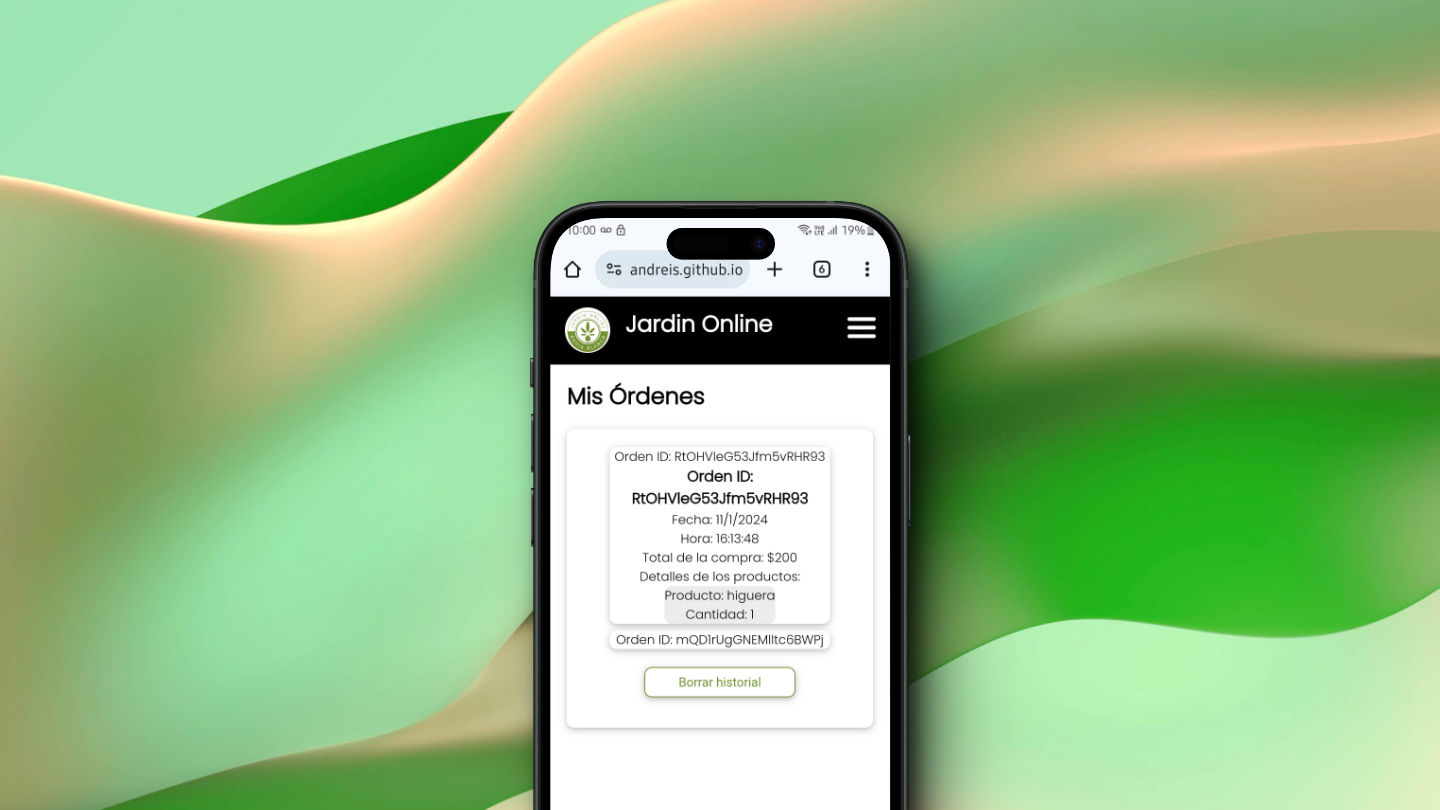
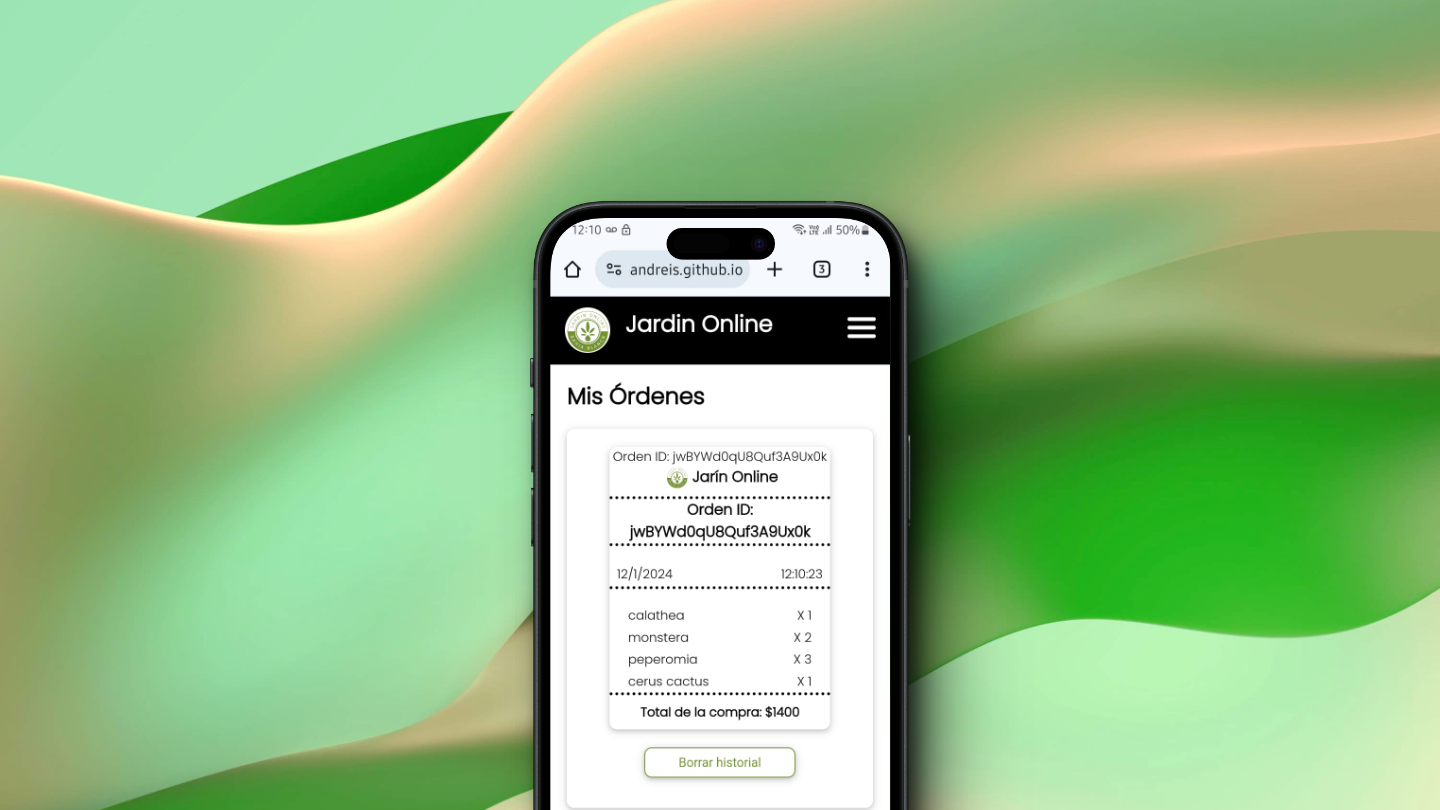
stockcheck

Changed region(s): [[0.4062, 0.5556, 0.5938, 1.0], [0.5312, 0.2778, 0.625, 0.3086], [0.4062, 0.2778, 0.4375, 0.3086]]

diff --git a/build/assets/index-Qv79pg9B.js b/build/assets/index-Qv79pg9B.js
@@ -1910,4 +1910,4 @@ This typically indicates that your device does not have a healthy Internet conne
  * WITHOUT WARRANTIES OR CONDITIONS OF ANY KIND, either express or implied.
  * See the License for the specific language governing permissions and
  * limitations under the License.
[2 lines of base64/hex data omitted]

diff --git a/build/assets/index-g93fgvcy.css b/build/assets/index-g93fgvcy.css
@@ -1,0 +1,1 @@
+.carrito{width:1.7rem;margin-top:1rem}.containercarrito{width:2.4rem;height:2.4rem;background-color:#fff;border-radius:2rem;padding:.6rem;display:flex;flex-direction:column;align-items:center;justify-content:center}.contador-widget{color:#fff;width:1.2rem;height:1.2rem;display:flex;justify-content:center;align-items:center;border-radius:1rem;font-weight:700;font-size:large;position:relative;top:-2rem;right:-1rem;background-color:#739332}.link-cart{text-decoration:none}.buscador{background-color:#fff0;height:2rem;width:20rem;border-radius:2rem;display:flex;justify-content:center;align-items:center}.btn-buscar{display:flex;justify-content:center;align-items:center;width:7rem;height:2rem;background-color:#739332;margin-right:2rem;border:1px solid #739332;border-radius:.5rem;color:#fff;cursor:pointer;box-shadow:0 2px 5px #00000029,0 2px 10px #0000001f;transition:.5s}.btn-buscar:hover{background-color:#fff;color:#739332}.categoria-link{text-decoration:none;color:#000}.container-ul{background-color:#fff;border-radius:1rem;height:2rem}@media (max-width: 768px){.buscador{display:none}}nav{display:flex;justify-content:space-between;width:100%;background-color:#000;height:10vh;align-items:center;z-index:1}.container-logo{display:flex;align-items:center;color:#fff}.container-logo img{width:3rem;height:3rem;object-fit:cover;background-color:#fff;border-radius:3rem;margin:0 1rem}ul{display:flex;justify-content:space-around;align-items:center}li{margin:0 1rem;list-style-type:none;text-decoration:none;color:#fff;cursor:pointer;transition:.3s}li:hover{border-radius:.5rem;padding:.3rem;margin:0 .7rem;background-color:#739332;color:#fff}.container-list{width:40%}.active{border-bottom:.2rem solid #739332}.nav_toggle{display:none}.link{display:flex;text-decoration:none;color:#fff;list-style:none}@media (max-width: 768px){.nav_items{position:absolute;top:60px;left:0;background:#739332;display:flex;flex-direction:column;width:100%;height:-webkit-fill-available;transform:translate(-100%);transition:.3s ease all}.nav_items.open{transform:translate(0)!important}.nav_toggle{display:flex!important;flex-direction:column;margin:15px}.nav_toggle span{width:30px;height:4px;background:white;margin-bottom:5px;border-radius:2px;transform-origin:5px 0px;transition:all .2s linear}.nav_toggle.open>span{transform:rotate(45deg) translate(0)}.nav_toggle.open>span:nth-child(2){display:none}.nav_toggle.open>span:nth-child(3){transform:rotate(-45deg) translate(-5px,1px)}.titulo-mobile{width:12rem}}.ilustraciones{width:100%;display:flex;justify-content:space-around;margin:5rem auto}.ilustraciones .center{display:flex;flex-direction:column;justify-content:center;text-align:center}.circle{width:10rem;height:10rem;border-radius:5rem;background-color:#ededed;margin-bottom:2rem}@media (max-width: 768px){.ilustraciones{width:100%;overflow-x:auto;flex-direction:row;align-items:center;display:none}.ilustraciones .center{margin:0 2rem}.ilustraciones .center:nth-child(1){margin-left:15rem!important}.circle{margin:1rem auto;width:3rem;height:3rem}.circle img{width:4rem;height:4rem}}.categoria-container{display:flex;flex-direction:row;justify-content:space-around;margin:2rem auto;width:90vw}.categoria-container .categoria-rectangle img{width:5rem;height:7rem;border-radius:3rem}.categoria-container .categoria-rectangle{width:12rem;height:12rem;box-shadow:0 2px 5px #00000029,0 2px 10px #0000001f;display:flex;flex-direction:column;align-items:center;border-radius:2rem;padding-bottom:1rem;cursor:pointer}.categoria-container .categoria-rectangle:hover{background-color:#739332;box-shadow:none}.link-b{display:flex;text-decoration:none;color:#000;list-style:none}@media (max-width: 768px){.categoria-container{flex-direction:row;overflow-x:auto;height:4rem;padding:.5rem}.categoria-rectangle img{display:none}.categoria-container .categoria-rectangle{height:3rem!important;width:7rem!important}.link-b:nth-child(1){margin-left:15rem!important}.link-b{margin:0 1rem}.categoria-rectangle h2:nth-child(1){font-size:large}.categoria-rectangle{justify-content:center;align-items:center;padding-bottom:0!important}}.container-itemCount{position:relative;width:100%;display:flex;justify-content:flex-end}.contador{display:flex;justify-content:space-around;width:50%;align-items:center;font-weight:700;margin-top:1rem;flex-direction:column}.btn-sum{background-color:#739332;border:none;border-radius:1.5rem;width:1.5rem;height:1.5rem;color:#fff;font-size:large;cursor:pointer;display:flex;justify-content:center;align-items:center}.btn-res{background-color:transparent;border:2px solid #739332;border-radius:1rem;width:1.5rem;height:1.5rem;color:#739332;font-size:large;cursor:pointer;display:flex;justify-content:center;align-items:center}.btn-agregar{background-color:transparent;border:none;box-shadow:0 2px 5px #00000029,0 2px 10px #0000001f;border-radius:1rem;width:10rem;height:1.5rem;color:#739332;cursor:pointer;transition:.5s}.btn-agregar:hover{background-color:#739332;color:#fff}.container-buttons{display:flex;flex-direction:row;justify-content:center;align-items:center;margin:1rem auto;width:100%}.numerito{margin:auto .5rem}.img{width:9rem;border-radius:1rem;height:9rem;object-fit:contain}.info{text-align:center}.precio{font-weight:700}@media (max-width: 768px){.info h2:nth-child(1){font-size:medium}}.card{width:10rem;border-radius:1rem;margin:1rem 2rem;padding:.5rem;display:flex;flex-direction:column;align-items:center;box-shadow:0 2px 5px #00000029,0 2px 10px #0000001f;flex-basis:15%;justify-content:space-between}.btn-ver{background-color:transparent;display:flex;justify-content:center;align-items:center;width:5rem;height:2rem;border:1px solid #739332;border-radius:.5rem;color:#739332;cursor:pointer;box-shadow:0 2px 5px #00000029,0 2px 10px #0000001f;margin-top:1rem;align-self:baseline;transition:.5s}.btn-ver:hover{background-color:#739332;color:#fff}@media (max-width: 768px){.card{margin:1rem .5rem}}.container-button{width:100%;display:flex;justify-content:end}.micarritobtn{display:flex;justify-content:center;align-items:center;width:10rem;height:3rem;background-color:transparent;margin-right:2rem;border:1px solid #739332;border-radius:.5rem;color:#739332;cursor:pointer;box-shadow:0 2px 5px #00000029,0 2px 10px #0000001f}.micarritobtn img{width:2rem;margin-left:1rem}.link-carrito{text-decoration:none}@media (max-width: 768px){.micarritobtn{font-size:large}}footer{background-color:#739332;height:4rem;display:flex;justify-content:center;align-items:center;color:#fff;margin-top:5rem}.fondoImagen{background-image:url(/Jardin-Online/assets/vista-superior-herramientas-jardineria-maceta-vA4K796D.jpg);background-size:cover;background-repeat:no-repeat;height:100vh;display:flex;align-items:center;justify-content:center;margin-bottom:2rem}.container-title{color:#fff;width:50%;margin:auto;border-radius:1rem;text-align:center}*{margin:0;padding:0;box-sizing:border-box}.container{background-image:"./imagenes/fondo/vista-superior-herramientas-jardineria-maceta.jpg";padding:0!important;max-width:100%!important}.container-productos{display:flex;margin-bottom:2rem;width:100%;flex-wrap:wrap;justify-content:center}h1{font-family:Sacramento,cursive;font-size:4rem}.subtitulos{text-align:center;font-family:Sacramento,cursive;font-size:3rem;color:#739332}.poppins{font-family:Poppins,sans-serif}@media (max-width: 768px){.mobile-ocultar{display:none}.container-title h1:nth-child(1){font-size:3rem}.fondoImagen{height:90vh}}.containerDetail{width:100%;height:100vh;display:flex;justify-content:center;align-items:center}.cardDetail{min-width:15rem;max-width:30rem;box-shadow:0 2px 5px #00000029,0 2px 10px #0000001f;border-radius:1rem;padding:1rem;display:flex;flex-direction:column;justify-content:center;align-items:center}.cardDetail img{min-width:15rem;max-height:15rem;max-width:30rem;object-fit:cover}.terminarCompra{background-color:transparent;border:none;box-shadow:0 2px 5px #00000029,0 2px 10px #0000001f;border-radius:1rem;width:10rem;height:1.5rem;color:#739332;cursor:pointer;transition:.5s;list-style:none;text-decoration:none;display:flex;justify-content:center;align-items:center;margin:1rem auto}.container-close{display:flex;flex-direction:row-reverse}.buttonClose{width:1.5rem;height:1.5rem;border-radius:1rem;position:relative;right:-1rem;cursor:pointer;text-decoration:none;color:#000;z-index:1;border:1px solid black;display:flex;justify-content:center;align-items:center}.sinStock{background-color:transparent;border:none;box-shadow:0 2px 5px #00000029,0 2px 10px #0000001f;border-radius:1rem;width:10rem;height:1.5rem;color:#739332;cursor:pointer;transition:.5s;list-style:none;text-decoration:none;display:flex;justify-content:center;align-items:center;margin:1rem auto}.container-nosotros{display:flex;justify-content:center;align-items:center;height:80vh}.card-nosotros{width:90%;height:70%;margin:auto;box-shadow:0 2px 5px #00000029,0 2px 10px #0000001f;border-radius:1rem;display:flex;justify-content:center;align-items:center;padding:1rem}.card-nosotros img{width:20rem}@media (max-width: 768px){.card-nosotros img{width:50%;margin-bottom:1rem}.container-nosotros{flex-direction:column}.card-nosotros{flex-direction:column-reverse;height:90%;text-align:center}}.cartitem{display:flex;width:100%;justify-content:space-between;padding:1rem;margin:.5rem auto;border-radius:.5rem;box-shadow:0 2px 5px #00000029,0 2px 10px #0000001f;align-items:center}.eliminarProducto{background-color:transparent;height:2rem;width:2rem;border-radius:3rem;border:3px solid #739332;color:#739332;font-weight:700;cursor:pointer;margin-left:.5rem}.eliminarProducto img{width:1.2rem;height:1.5rem;object-fit:contain}.imagen-cart{width:3.5rem;height:3.5rem;border-radius:.5rem;object-fit:cover}.container-count{display:flex}.container-count p{margin:auto .5rem}.container-buttons-cart{display:flex;flex-direction:column-reverse;width:5rem;margin:0}.container-butons-general{display:flex;flex-direction:row;width:9rem;align-items:center}.total-precio{font-weight:700;text-align:center}@media (max-width: 768px){.cartitem{text-align:center}.eliminarProducto{margin-left:1.5rem}.container-count{margin:auto}}.container-compras{width:60%;margin:1rem auto}.containerbuttoncompras{display:flex;justify-content:space-between;width:100%;margin:1rem auto}.container-total{background-color:#739332;border-radius:.5rem;color:#fff;padding:.5rem}.vaciarCarrito{background-color:transparent;border:3px solid #739332;padding:.5rem;border-radius:.5rem;cursor:pointer;height:2rem;color:#739332;display:flex;justify-content:center;align-items:center}.finalizarcompra{text-decoration:none;color:#fff;background-color:#739332;border-radius:.5rem;height:2rem;display:flex;justify-content:center;align-items:center;padding:.5rem}.container-vacio{box-shadow:0 2px 5px #00000029,0 2px 10px #0000001f;width:60%;margin:5rem auto;padding:1rem;border-radius:.5rem;height:10rem;display:flex;flex-direction:column}.verProductos{text-decoration:none;color:#739332;border:#739332 3px solid;border-radius:.5rem;padding:.5rem;margin-top:1rem;width:10rem;cursor:pointer;display:flex;justify-content:center;align-items:center}@media (max-width: 768px){.container-compras{width:100%;padding:.5rem}.vaciarCarrito,.finalizarcompra{height:3rem;width:5rem}}.container-checkout{width:100%;height:100%;padding:2rem}.card-checkout{width:30%;height:100%;margin:0 auto;background-color:#fff;display:flex;flex-direction:column;justify-content:space-around;border-radius:1rem;box-shadow:0 2px 5px #00000029,0 2px 10px #0000001f}.title-checkout{border-bottom:dotted black 3px;text-align:center}.productos-checkout{display:flex;width:100%;justify-content:space-between;padding:.5rem}.container-label-checkout{display:flex;flex-direction:column;color:#000}.container-label-checkout input{width:60%;margin:0 auto;box-shadow:0 2px 5px #00000029,0 2px 10px #0000001f;border:none;border-radius:.3rem;height:1.5rem;padding:.5rem}.btn-checkout{background-color:#fff;display:flex;justify-content:center;align-items:center;width:10rem;height:2rem;border:1px solid #739332;border-radius:.5rem;color:#739332;cursor:pointer;box-shadow:0 2px 5px #00000029,0 2px 10px #0000001f;margin:1rem auto;align-self:baseline;transition:.5s}.btn-checkout:hover{background-color:#739332;color:#fff}.container-productos-checkout{border-bottom:dotted black 3px}.container-confirmacion{background-color:#739332;border-radius:1rem;padding:.5rem;color:#fff}.container-total-checkout{display:flex;justify-content:space-between;padding:.5rem;font-weight:700;border-bottom:dotted black 3px}.back{border:#739332 solid 3px;width:2rem;height:2rem;border-radius:2rem;display:flex;justify-content:center;align-items:center;margin-left:90%;margin-top:.5rem}.back img{width:1.5rem;height:1.5rem}.container-form{text-align:center}@media (max-width: 768px){.card-checkout{width:100%}}.item-order-li{color:#000;border-radius:.5rem;margin:.1rem auto;width:90%;display:flex;justify-content:space-between;padding:0 .5rem}.ul-productos{display:flex;flex-direction:column}.dotted{border-bottom:dotted 3px black}.container-fecha{display:flex;justify-content:space-between;padding:.2rem .5rem;margin:1rem auto;align-items:center}.bold{font-weight:700}.total{padding:.5rem}.logo-ticket{width:2rem}.flex{display:flex;justify-content:center;align-items:center;padding-bottom:.5rem}.container-orders{display:flex;flex-direction:column;box-shadow:0 2px 5px #00000029,0 2px 10px #0000001f;width:50%;margin:0 auto;padding:1rem;border-radius:.5rem}.btn-order{width:80%;margin:.2rem auto;background-color:transparent;border:none;box-shadow:0 2px 5px #00000029,0 2px 10px #0000001f;border-radius:.5rem;color:#000}.misordertitle{width:50%;margin:1rem auto}.btn-borrar-historial{display:flex;justify-content:center;align-items:center;width:10rem;height:2rem;background-color:transparent;margin:1rem auto;border:1px solid #739332;border-radius:.5rem;color:#739332;cursor:pointer;box-shadow:0 2px 5px #00000029,0 2px 10px #0000001f}@media (max-width: 768px){.container-orders,.misordertitle{width:90%}}

diff --git a/build/index.html b/build/index.html
@@ -18,8 +18,8 @@
   <script src="https://cdn.jsdelivr.net/npm/sweetalert2@11"></script>
 
 
-  <script type="module" crossorigin src="/Jardin-Online/assets/index-JcmEFSpW.js"></script>
-  <link rel="stylesheet" crossorigin href="/Jardin-Online/assets/index-TVC12K8K.css">
+  <script type="module" crossorigin src="/Jardin-Online/assets/index-Qv79pg9B.js"></script>
+  <link rel="stylesheet" crossorigin href="/Jardin-Online/assets/index-g93fgvcy.css">
 </head>
 
 <body>
